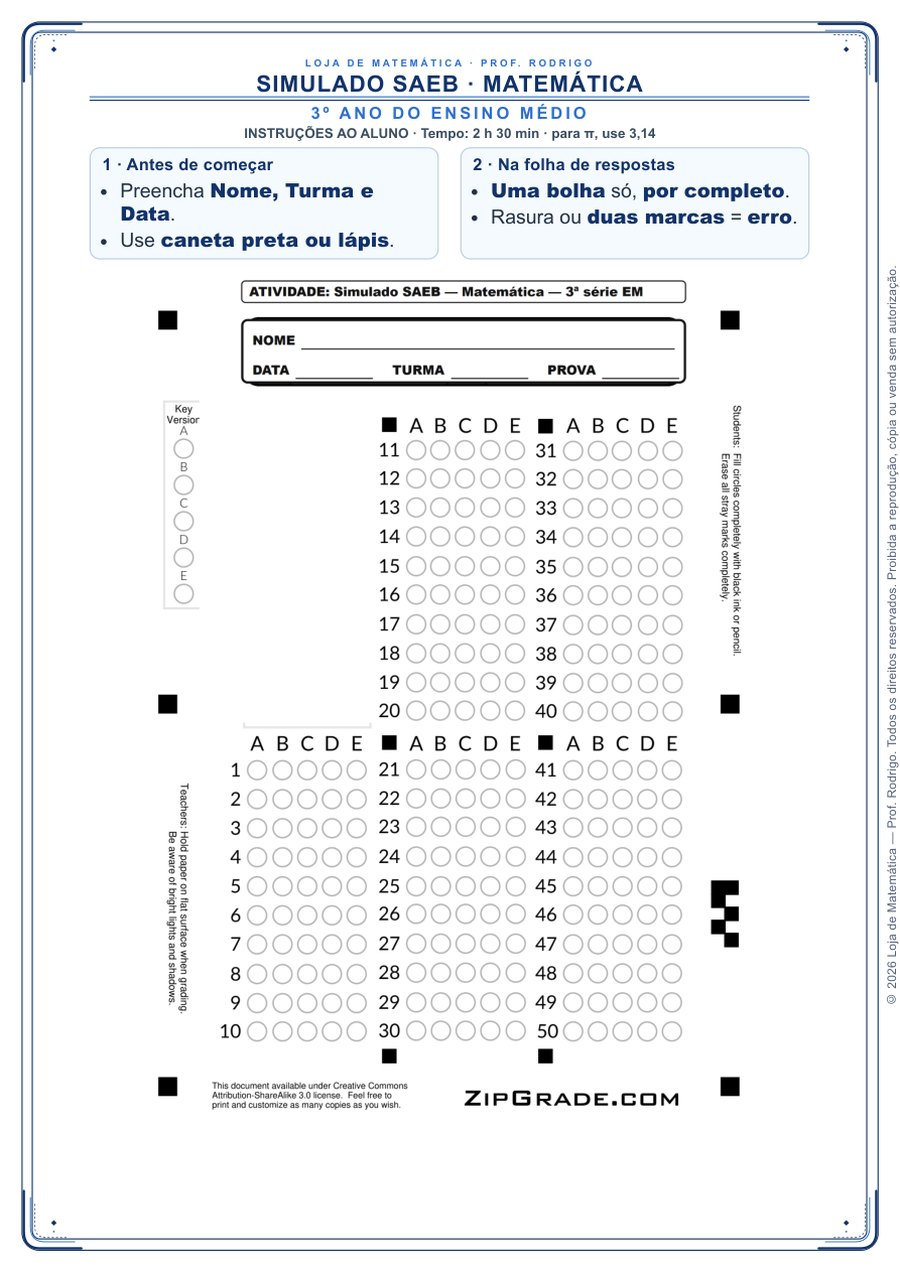
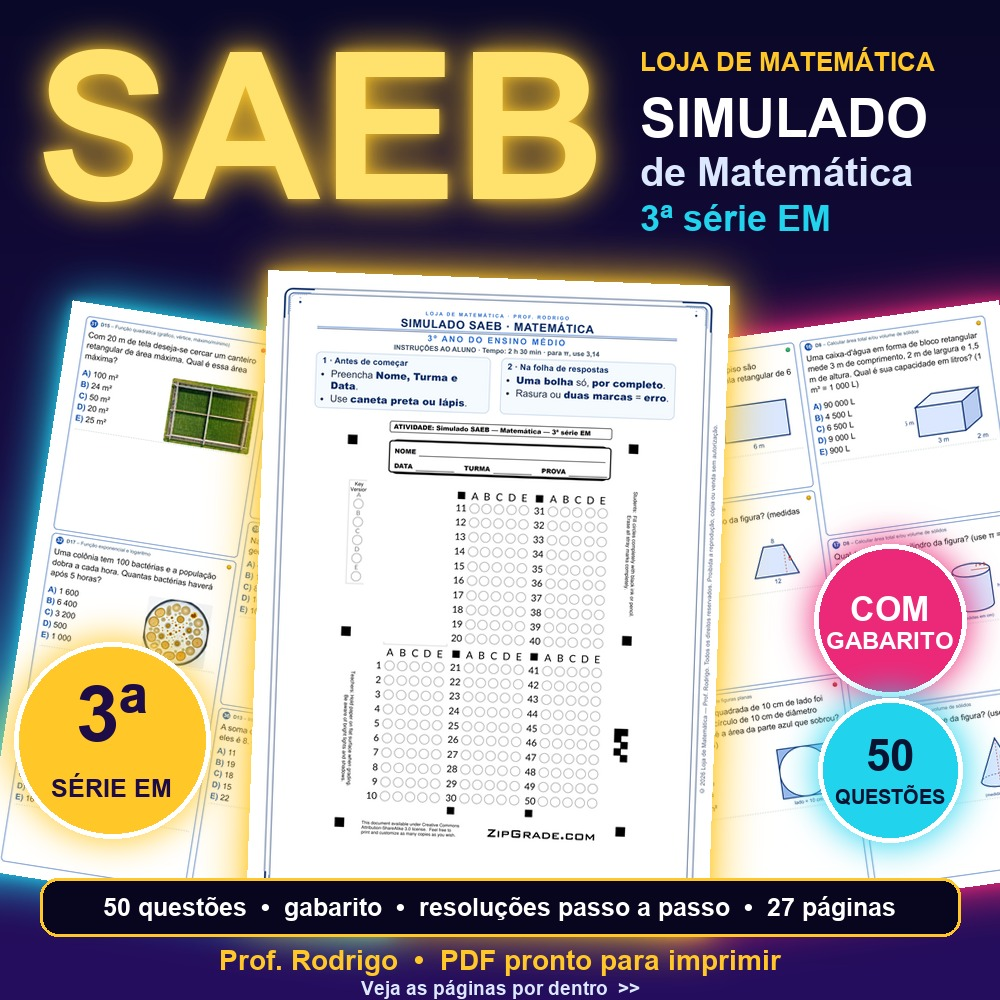
Capas SAEB do site: estilo baralho com glow, SAEB gigante

diff --git a/capa_saeb_site.py b/capa_saeb_site.py
@@ -1,0 +1,65 @@
+# -*- coding: utf-8 -*-
+"""Capas SAEB SO PARA O SITE (Loja/img/saeb-<slug>-1.jpg/.webp). Estilo baralho do Se Liga, outro esquema de cores
+(noite + dourado + glow), 'SAEB' gigante a esquerda. Nao altera os cadernos."""
+import os, fitz
+from bs4 import BeautifulSoup
+from PIL import Image, ImageDraw, ImageFont, ImageFilter, ImageChops
+B = r'A:\Claude.ai\Materiais\Matematica\Simulados-SAEB'; OUT = r'A:\Claude.ai\Loja\img'
+SER = {'9': (B + r'\9-ano\simulado-saeb-matematica-9-ano', '9º', 'ANO', '9º ano'),
+       '3em': (B + r'\3-ano-EM\simulado-saeb-matematica-3-ano-em', '3ª', 'SÉRIE EM', '3ª série EM')}
+S = 1000; GOLD = (255, 200, 40); CY = (34, 211, 238); MG = (236, 40, 120)
+def F(sz): return ImageFont.truetype('C:/Windows/Fonts/arialbd.ttf', sz)
+def fundo():
+    bg = Image.new('RGB', (S, S)); d = ImageDraw.Draw(bg)
+    for y in range(S):
+        t = y / S; d.line([(0, y), (S, y)], fill=(int(10 + 28 * t), int(8 + 6 * t), int(40 + 55 * t)))
+    return bg.convert('RGBA')
+def glow(base, silhueta, cor, raio, forca=1.0, off=(0, 0)):
+    """halo colorido a partir da silhueta (imagem RGBA/L do tamanho do canvas)"""
+    m = silhueta.convert('L').filter(ImageFilter.GaussianBlur(raio)); m = m.point(lambda v: min(255, int(v * forca)))
+    cam = Image.new('RGBA', base.size, cor + (0,)); cam.putalpha(m); base.alpha_composite(cam)
+def cartao(bg, im, w, ang, pos, cor):
+    h = int(im.height * w / im.width); im = im.convert('RGB').resize((w, h), Image.LANCZOS)
+    c = Image.new('RGBA', (w + 12, h + 12), (255, 255, 255, 255)); c.paste(im, (6, 6))
+    c = c.rotate(ang, expand=True, resample=Image.BICUBIC)
+    sil = Image.new('L', bg.size, 0); sil.paste(c.split()[3], pos)
+    glow(bg, sil, cor, 24, 1.15); glow(bg, sil, cor, 7, 0.7)
+    bg.alpha_composite(c, pos)
+def texto_glow(bg, xy, t, sz, fill, cor, anchor='lm'):
+    sil = Image.new('L', bg.size, 0); ImageDraw.Draw(sil).text(xy, t, font=F(sz), fill=255, anchor=anchor)
+    glow(bg, sil, cor, 18, 1.1); glow(bg, sil, cor, 5, 0.7)
+    ImageDraw.Draw(bg).text(xy, t, font=F(sz), fill=fill, anchor=anchor)
+def pg(doc, n, dpi=130):
+    p = doc[max(0, min(n - 1, len(doc) - 1))].get_pixmap(dpi=dpi, alpha=False); return Image.frombytes('RGB', (p.width, p.height), p.samples)
+def gerar(slug):
+    base, s1, s2, nome = SER[slug]
+    doc = fitz.open(base + '.pdf'); secs = BeautifulSoup(open(base + '.html', encoding='utf-8').read(), 'html.parser').select('section.pagina')
+    figs = sorted([(len(s.find_all(['svg', 'img'])), i) for i, s in enumerate(secs, 1) if 'prova' in (s.get('class') or [])], reverse=True)
+    q1, q2 = figs[0][1], figs[1][1]
+    bg = fundo()
+    cartao(bg, pg(doc, q2), 400, -9, (-18, 300), CY); cartao(bg, pg(doc, q1), 400, 8, (590, 300), MG)
+    cartao(bg, pg(doc, 1), 450, -2, (245, 270), GOLD)
+    d = ImageDraw.Draw(bg)
+    texto_glow(bg, (36, 128), 'SAEB', 205, (255, 226, 110), GOLD)             # gigante, canto esquerdo
+    d.text((640, 62), 'LOJA DE MATEMÁTICA', font=F(26), fill=GOLD, anchor='lm')
+    d.text((640, 118), 'SIMULADO', font=F(54), fill='white', anchor='lm')
+    d.text((640, 172), 'de Matemática', font=F(40), fill=(220, 232, 255), anchor='lm')
+    d.text((640, 218), nome, font=F(36), fill=CY, anchor='lm')
+    def selo(cx, cy, r, fill, fg, l1, l2, a, b, halo):
+        sil = Image.new('L', bg.size, 0); ImageDraw.Draw(sil).ellipse((cx - r, cy - r, cx + r, cy + r), fill=255)
+        glow(bg, sil, halo, 18, 1.1)
+        dd = ImageDraw.Draw(bg); dd.ellipse((cx - r, cy - r, cx + r, cy + r), fill=fill, outline='white', width=5)
+        dd.text((cx, cy - (a // 3 if l2 else 0)), l1, font=F(a), fill=fg, anchor='mm')
+        if l2: dd.text((cx, cy + a // 1.6), l2, font=F(b), fill=fg, anchor='mm')
+    selo(112, 740, 98, GOLD, (30, 12, 70), s1, s2, 90 if len(s2) <= 3 else 78, 36 if len(s2) <= 3 else 25, GOLD)
+    selo(890, 620, 76, MG, 'white', 'COM', 'GABARITO', 34, 24, MG)
+    selo(890, 770, 72, CY, (8, 20, 50), '50', 'QUESTÕES', 44, 20, CY)
+    d.rounded_rectangle((40, 878, 960, 936), radius=18, fill=(8, 6, 30), outline=GOLD, width=3)
+    d.text((500, 907), '50 questões  •  gabarito  •  resoluções passo a passo  •  %d páginas' % len(doc), font=F(25), fill='white', anchor='mm')
+    d.text((500, 960), 'Prof. Rodrigo  •  PDF pronto para imprimir', font=F(28), fill=GOLD, anchor='mm')
+    d.text((500, 988), 'Veja as páginas por dentro  >>', font=F(19), fill=(220, 232, 255), anchor='mm')
+    c = bg.convert('RGB'); c.save(os.path.join(OUT, 'saeb-%s-1.jpg' % slug), quality=92); c.save(os.path.join(OUT, 'saeb-%s-1.webp' % slug), quality=88)
+    print('ok', slug, q1, q2, len(doc))
+if __name__ == '__main__':
+    import sys
+    for s in (sys.argv[1:] or SER): gerar(s)
